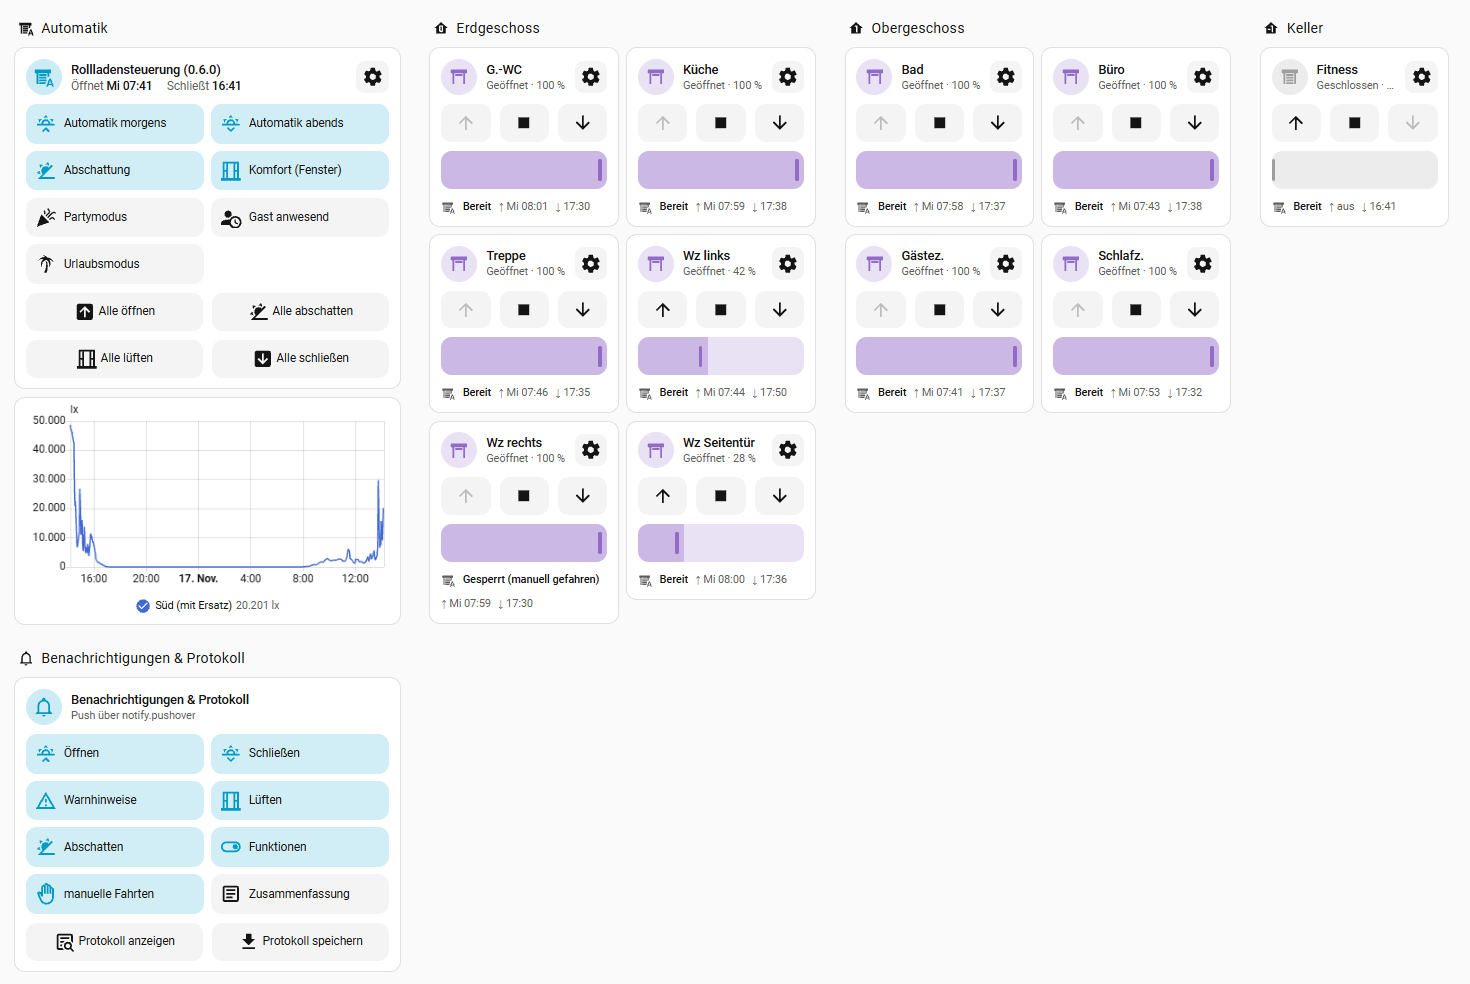
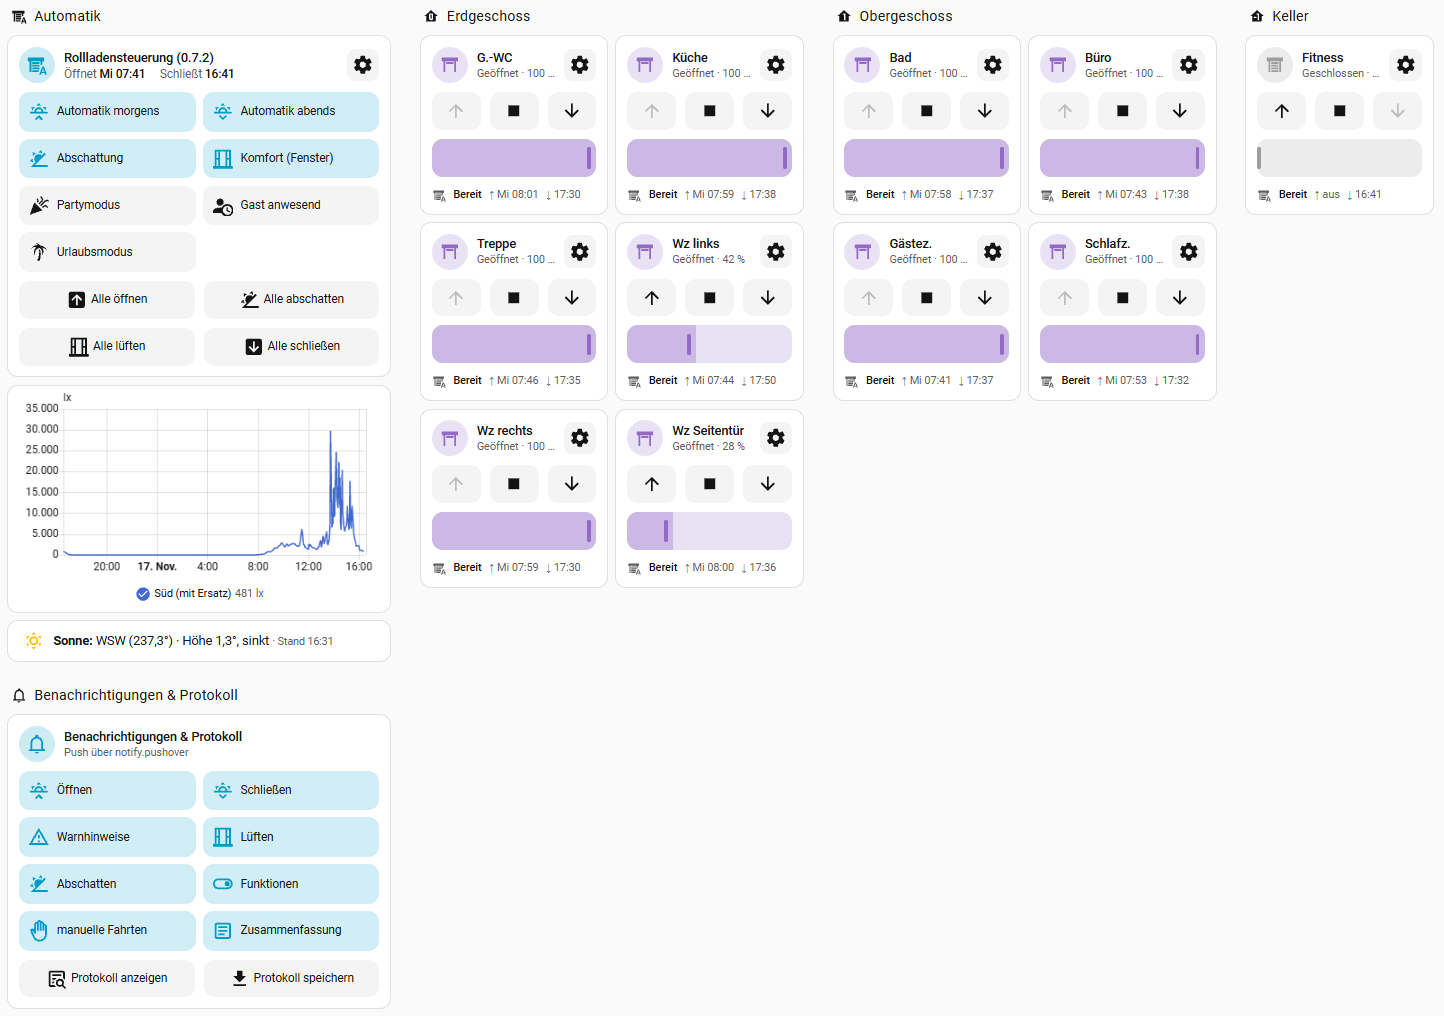
Doku: aktueller Dashboard-Screenshot mit Sonnenstand

diff --git a/README.de.md b/README.de.md
@@ -9,7 +9,7 @@ Alles wird in der Oberfläche eingestellt, ein passendes Dashboard ist dabei.
 
 ![Dashboard der Rollladensteuerung: Zentrale mit Schaltern und Alle-Buttons, Rollläden nach Stockwerk, Benachrichtigungen und Protokoll](https://raw.githubusercontent.com/Cluni2k/ha-rollladensteuerung/main/docs/dashboard.png)
 
-*Das Dashboard: links Automatik und Benachrichtigungen, rechts die Rollläden nach Stockwerk mit Status und nächster Öffnungs-/Schließzeit.*
+*Das Dashboard: links die Automatik mit Helligkeitsverlauf und aktuellem Sonnenstand sowie Benachrichtigungen und Protokoll, rechts die Rollläden nach Stockwerk mit Status und nächster Öffnungs-/Schließzeit.*
 
 ## Funktionen
 

diff --git a/README.md b/README.md
@@ -12,7 +12,7 @@ integration – configured entirely in the UI, with its own dashboard.
 
 ![Dashboard of the shutter control: central card with switches and all buttons, shutters grouped by floor, notifications and log](https://raw.githubusercontent.com/Cluni2k/ha-rollladensteuerung/main/docs/dashboard.png)
 
-*The dashboard (German UI): automation and notifications on the left, shutters by floor with status and next opening/closing times.*
+*The dashboard (German UI): on the left the automation with brightness history and current sun position, plus notifications and log; on the right the shutters by floor with status and next opening/closing times.*
 
 ## Features
 
